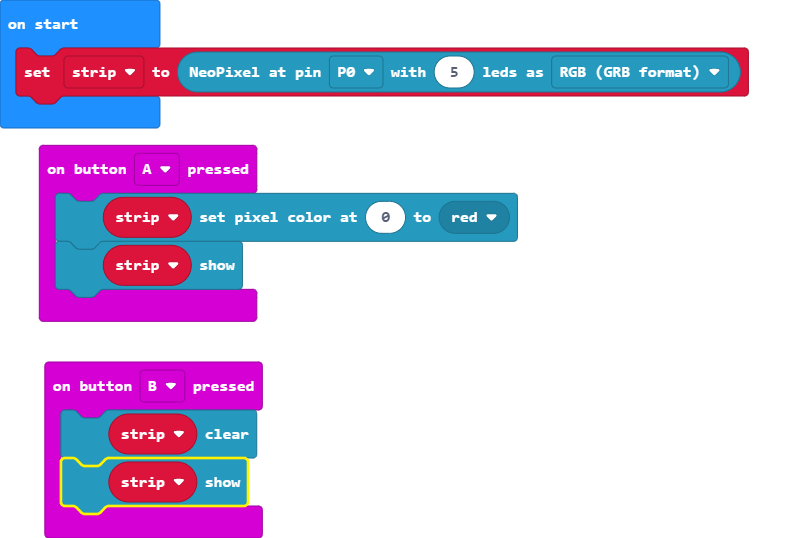
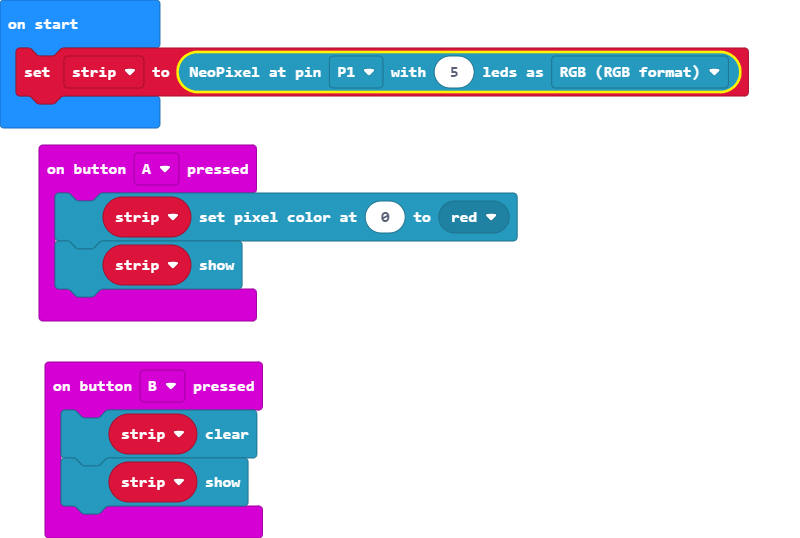
Update main.blocks, main.ts

diff --git a/main.ts b/main.ts
@@ -7,4 +7,4 @@ input.onButtonPressed(Button.B, function () {
     strip.show()
 })
 let strip: neopixel.Strip = null
-strip = neopixel.create(DigitalPin.P0, 5, NeoPixelMode.RGB)
+strip = neopixel.create(DigitalPin.P1, 5, NeoPixelMode.RGB_RGB)
